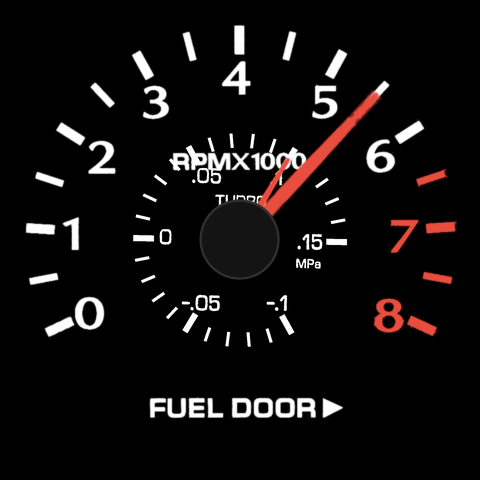
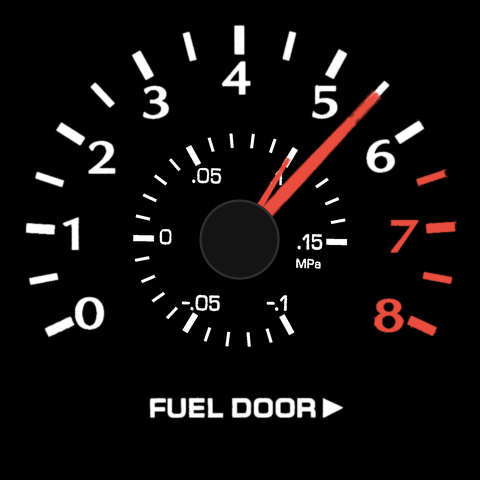
Boost mock: remove TURBO and RPMX1000

Changed region(s): [[0.3438, 0.3125, 0.6562, 0.375], [0.4375, 0.4062, 0.5625, 0.4375]]

diff --git a/tools/alt-faces/boost_face.py b/tools/alt-faces/boost_face.py
@@ -1,7 +1,7 @@
 """Boost (MPa) sub-dial for an alternate tach face, from the owner's Lamco TURBO gauge photo (IMG_7566).
 - Ticks are redrawn synthetically from measured geometry: 26 ticks, 12 deg apart (0.01 MPa), -0.10 MPa at 151.1 deg
   (clockwise from 12 o'clock) to +0.15 at 91.1 deg; majors every 0.05 MPa.
-- Labels (.05 .1 .15 -.05 -.1 TURBO MPa) are lifted from the photo (top-hat filtered), white on black.
+- Labels (.05 .1 .15 -.05 -.1 MPa; TURBO removed per owner 2026-10-16) are lifted from the photo (top-hat filtered), white on black.
 - The 0 hidden by the needle is rebuilt from the 0 of the upper '.05' and placed where the photo shows its top arc.
 - No LAMCO logo, screws, hub or bezel ring; nothing outside the tick ring."""
 import json, math, numpy as np
@@ -12,7 +12,7 @@ a=np.asarray(Image.open(SRC).convert('RGB').crop(CROP)).astype(float); g=a.min(2
 bg=ndimage.median_filter(g[::4,::4],size=25); bg=np.kron(bg,np.ones((4,4)))[:g.shape[0],:g.shape[1]]; top=g-bg
 C=np.array([722.8,717.5]); RO=561.0          # fitted dial centre and tick outer radius (photo px)
 GEOM=dict(minor_in=485/RO, major_in=452/RO, minor_w=16/RO, major_w=32/RO, a0=151.1, step=12.0, n=26, needle_len=513/RO)
-LABELS={'.05':(450,330,640,430),'.1':(860,330,960,430),'TURBO':(580,470,870,550),'.15':(1020,680,1165,775),
+LABELS={'.05':(450,330,640,430),'.1':(860,330,960,430),'.15':(1020,680,1165,775),
         'MPa':(1010,805,1160,880),'-.05':(410,1000,630,1095),'-.1':(860,1000,985,1095)}
 ZERO_SRC=(496,338,563,423); ZERO_CENTER=(333,703)
 def label_alpha(box):

diff --git a/tools/alt-faces/tach_boost_mock.py b/tools/alt-faces/tach_boost_mock.py
@@ -7,9 +7,11 @@ F=json.load(open('art/faces/faces.json'))['gauges']['tach']; N=json.load(open('a
 TACH_RO=214.0; BOOST_RO=TACH_RO/2
 def tach_angle(rpm): return -115.6+rpm*0.02885
 face=np.asarray(Image.open('art/faces/tach_480.png').convert('RGB')).astype(float)
+RPM_LABEL=(170,149,310,174)   # RPMX1000 bbox (x0,y0,x1,y1), removed in boost mode per owner 2026-10-16
+boost_face=face.copy(); x0,y0,x1,y1=RPM_LABEL; boost_face[y0:y1,x0:x1]=0
 dial=bf.build(BOOST_RO); S=dial.shape[0]; cx,cy=F['pivot_px']
 def compose(rpm,mpa,with_boost=True):
-    img=face.copy()
+    img=(boost_face if with_boost else face).copy()
     if with_boost:
         x0=int(round(cx-S/2)); y0=int(round(cy-S/2))
         reg=img[y0:y0+S,x0:x0+S]; img[y0:y0+S,x0:x0+S]=np.maximum(reg,dial[...,None]*255)   # white print on the same black plane

diff --git a/docs/PLAN.md b/docs/PLAN.md
@@ -23,7 +23,7 @@ Status: Phase 0 (discovery). Prepared 2026-10-12. Rev 2: decisions log added (se
 | 2026-10-14 | The cluster can't be scanned non-destructively. v2 faces and overlay rebuilt from needle-free photos with geometric rectification (section 4.2d). |
 | 2026-10-14 | Frame leveled: rotated 2.17° CCW. Printed text (RPMX1000, FUEL DOOR, MPH, km/h, TYPE AC, MI) measured 2.05–2.30° clockwise; it now reads 0.0°. Dial sweeps are within 0.5° of symmetric about vertical. Tach 0 tick rebuilt from the 1000 rpm tick (the knob post hid its end); the stop-pin mask by the 8 was tightened. |
 | 2026-10-14 | Odometer goes digital (owner): the drum module is too large to keep (rear photos IMG_7579/7580/7582). Odometer is drawn in the bottom of the speedo face, trip meter where FUEL DOOR is printed on the tach. Exact stock text placement is not required. Speedo must stay stock size; the tach may shrink slightly. The white rear body will be trimmed to take the screens. |
-| 2026-10-16 | Boost alternate tach face, MOCK (daylight only): a boost sub-dial from the owner's Lamco TURBO gauge photo (`art/boost/ref_IMG_7566.jpg`), MPa -0.10 to +0.15, 26 ticks 12 deg apart, -0.10 at 151.1 deg. The ticks are redrawn and the labels lifted from the photo; the hidden 0 is rebuilt from the 0 of ".05"; no logo, screws or outer ring. White on the same black plane, concentric with the tach, tick outer radius 107 px (half the tach's 214 px). The boost needle is the tach master needle scaled to 0.915 of the sub-dial radius, drawn under the tach needle so its hub is hidden. Open issues: RPMX1000 overlaps the top of the sub-dial; TURBO sits under the tach hub. Files: `tools/alt-faces/boost_face.py`, `tools/alt-faces/tach_boost_mock.py`, `art/boost/`, `art/preview/tach_boost_preview.png`. |
+| 2026-10-16 | Boost alternate tach face, MOCK (daylight only): a boost sub-dial from the owner's Lamco TURBO gauge photo (`art/boost/ref_IMG_7566.jpg`), MPa -0.10 to +0.15, 26 ticks 12 deg apart, -0.10 at 151.1 deg. The ticks are redrawn and the labels lifted from the photo; the hidden 0 is rebuilt from the 0 of ".05"; no logo, screws or outer ring. White on the same black plane, concentric with the tach, tick outer radius 107 px (half the tach's 214 px). The boost needle is the tach master needle scaled to 0.915 of the sub-dial radius, drawn under the tach needle so its hub is hidden. Owner 2026-10-16: TURBO removed from the sub-dial, and RPMX1000 removed from the tach face in boost mode. Files: `tools/alt-faces/boost_face.py`, `tools/alt-faces/tach_boost_mock.py`, `art/boost/`, `art/preview/tach_boost_preview.png`. |
 | 2026-10-14 | Oil-temp alternate for the temp gauge: the coolant icon (ISO 7000-0246) is replaced by ISO 2575 F.05 "Engine oil temperature" (ISO 7000-2426), extracted from the ISO 2575:2010 Annex F table, emboldened toward the stock icon's stroke weight, and placed 74 x 54 px at the coolant icon position (44 px inside the hole). C/H, the red hot tick and the blue cold tick are unchanged; only the firmware calibration differs. Files: `tools/alt-faces/oil_temp_face.py`, `art/faces/temp_oil_480.png`, `art/preview/temp_oil_preview.png`. |
 | 2026-10-14 | Controls (owner): the stock trip-reset stalk goes away with the cluster internals, so all functions move to one pad. PROPOSED: Blink Marine PKP-2300-SI 6-key CAN keypad (CANopen, 12 V, AT04-4P) on the Haltech bus at 1 Mbit/s, read by the hub. Keys: (1) temp slot coolant/oil, (2) fuel slot level/ethanol, (3) overlay toggle (AFR later), (4) trip reset (hold 2 s), (5-6) spare for the hub or the ECU via GCAN. The hub stores each gauge's function index and overlay bits in NVS and broadcasts them in frame 0x6A1; key LEDs show state. Before choosing the node ID, sniff the bus for collisions with the keypad's CANopen IDs (0x180/0x200/0x580/0x600/0x700 + node). The hub stays behind the cluster. |
 | 2026-10-14 | Ethanol alternate for the fuel gauge (owner spec): E becomes 0, F becomes 1, and the 1/2 tick stays (it already sits at mid travel: -73.0 deg vs -72.7 deg midpoint). Needle angle is linear in ethanol fraction from the E tick (-115.9 deg) to the F tick (-29.4 deg). The pump icon is replaced by a ring with a live readout: "E" + integer ethanol % (E67); exactly "E" at 0 %; the text shrinks to fit for E100. Readout glyphs come from the cluster typeface (E from the fuel face, digits from the tach face, 9 = the 6 rotated 180 deg) in `art/glyphs/`. Files: `tools/alt-faces/ethanol_face.py`, `art/faces/fuel_ethanol_static_A8.png`, `art/faces/fuel_ethanol.json`, `art/preview/fuel_ethanol_preview.png`. The ring style borrows the EN 16942 petrol identifier (circle + "E" + ethanol %), a pump-label standard, not a dashboard symbol. |
